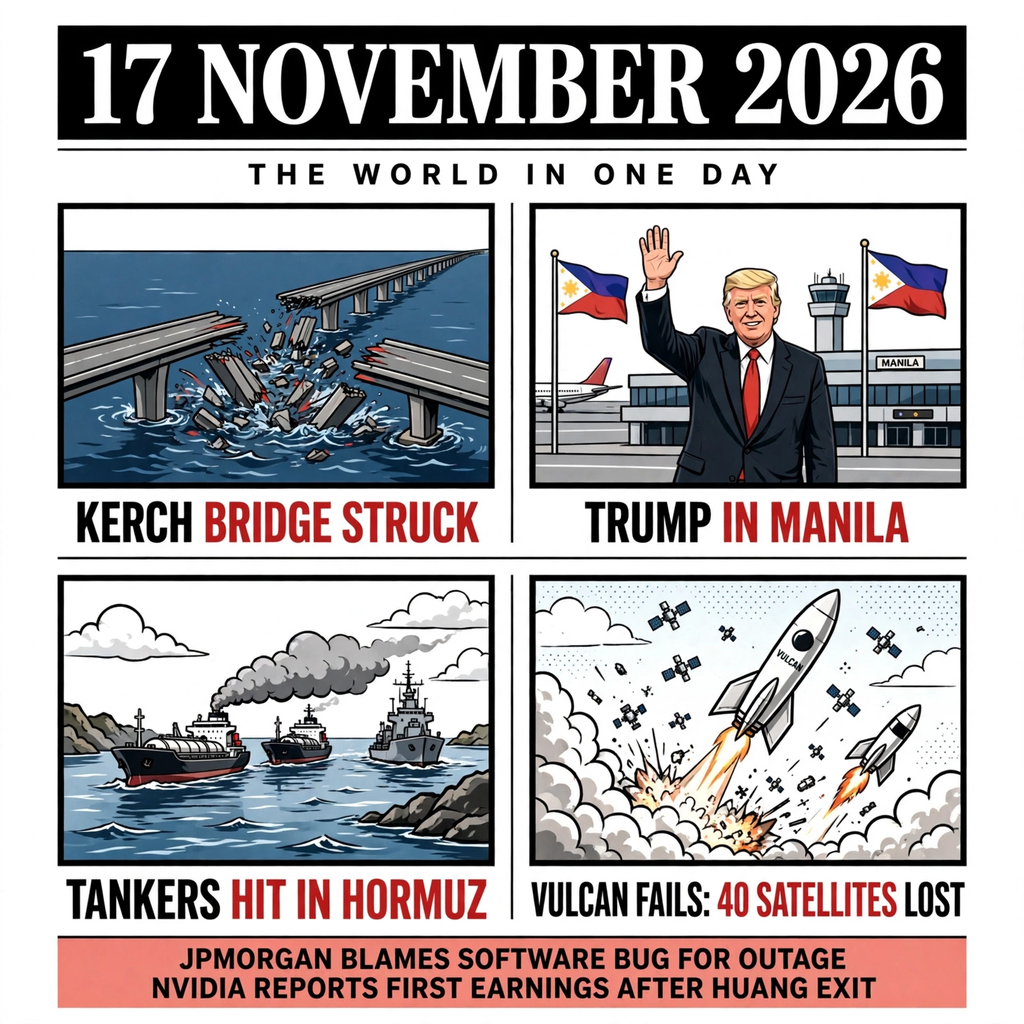
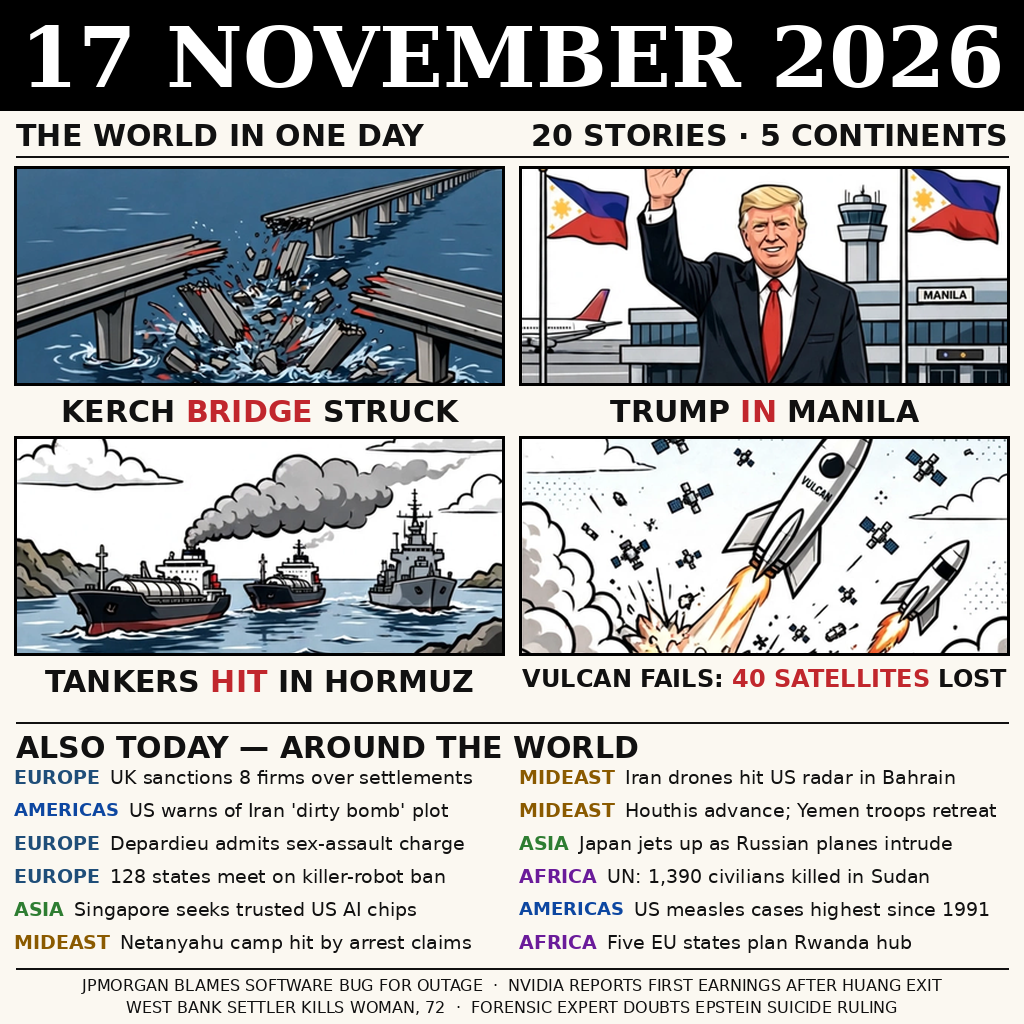
Round 2: denser front page - 20 stories across 5 continents

diff --git a/main.py b/main.py
@@ -1,33 +1,36 @@
-"""news-image-20261117 entry: copy the bundled newspaper image to the output dir.
+"""Round-2 program for news-image-20261117: deliver the bundled front page.
 
-The image (entry.png, 1024x1024, 961776 bytes) is a newspaper front page
-summing up Tuesday 17 November 2026: Kerch Bridge struck, Trump in Manila,
-tankers hit in Hormuz, Vulcan fails with 40 Amazon satellites lost, plus
-JPMorgan's software-bug outage and Nvidia's first post-Huang earnings.
-Deterministic: the same bytes are written on every run.
+The page (entry.png, 1024 by 1024) sums up Tuesday 17 November 2026 in
+twenty stories across five continents: four illustrated leads - the Kerch
+Bridge strike, Trump in Manila, the Hormuz tanker attacks, the Vulcan
+failure - plus twelve briefs from Europe, the Middle East, Asia, Africa and
+the Americas, and a four-item footer. The program only places the bundled
+bytes into the output directory, so the grader's two runs agree exactly.
 """
 
-import os
-import shutil
+from pathlib import Path
 import sys
 
-SOURCE = os.path.join(os.path.dirname(os.path.abspath(__file__)), "entry.png")
+BUNDLED = Path(__file__).resolve().parent / "entry.png"
 
 
-def main() -> int:
-    out_dir = os.environ.get("MAKEFUN_OUTPUT_DIR") or "out"
-    if not os.path.isfile(SOURCE):
-        print("missing bundled image: entry.png", file=sys.stderr)
+def place_copy(destination):
+    destination.parent.mkdir(parents=True, exist_ok=True)
+    destination.write_bytes(BUNDLED.read_bytes())
+    return destination.stat().st_size == BUNDLED.stat().st_size
+
+
+def run():
+    out = Path(__import__("os").environ.get("MAKEFUN_OUTPUT_DIR", "out"))
+    target = out / "entry.png"
+    if not BUNDLED.is_file():
+        print("bundled entry.png is missing", file=sys.stderr)
         return 1
-    os.makedirs(out_dir, exist_ok=True)
-    dest = os.path.join(out_dir, "entry.png")
-    shutil.copyfile(SOURCE, dest)
-    # Guard: the run must reproduce the bundled bytes exactly.
-    if os.path.getsize(dest) != os.path.getsize(SOURCE):
-        print("output size mismatch", file=sys.stderr)
+    if not place_copy(target):
+        print("copied bytes do not match the bundle", file=sys.stderr)
         return 1
     return 0
 
 
 if __name__ == "__main__":
-    sys.exit(main())
+    sys.exit(run())

diff --git a/README.md b/README.md
@@ -1,31 +1,20 @@
-# 17 November 2026 — The World in One Day
+# 17 November 2026 in one image — front page, round 2
 
 [![make.fun](https://make.fun/badge/news-image-20261117.svg)](https://make.fun/bounty/news-image-20261117)
 [![rank](https://make.fun/badge/news-image-20261117/yayass-crypto/news-image-20261117/rank.svg)](https://make.fun/bounty/news-image-20261117)
 [![reward](https://make.fun/badge/news-image-20261117/yayass-crypto/news-image-20261117/reward.svg)](https://make.fun/bounty/news-image-20261117)
 
-An entry for the [make.fun bounty "Sum up 17 November's world news in one image"](https://make.fun/bounty/news-image-20261117) (news-image-20261117).
+A newspaper front page summing up Tuesday 17 November 2026: twenty stories
+across five continents. Four illustrated leads — the Kerch Bridge strike,
+Trump in Manila for the Quad summit, tankers hit in the Strait of Hormuz,
+and the Vulcan rocket failure that lost 40 satellites — plus twelve briefs
+from Europe, the Middle East, Asia, Africa and the Americas, and a footer
+with the JPMorgan outage, Nvidia earnings, the West Bank killing and the
+Epstein-file doubt. Every headline was checked against 17 November wire
+coverage; all page text is drawn crisply so it stays legible small.
 
-## What the image shows
+`main.py` copies the bundled `entry.png` (1024×1024, under 1 MiB) to the
+output directory, deterministically — both grader runs write identical bytes.
 
-A newspaper front page dated **Tuesday 17 November 2026**, summing up the day's world news in four panels plus a bottom strip:
-
-- **Kerch Bridge struck** — Ukraine collapsed the road span of the bridge linking Russia to occupied Crimea; Russia hit Kyiv's bridges in reply.
-- **Trump in Manila** — President Trump arrived in the Philippines for the ASEAN summit, signing a trade statement with Thailand, before heading to China for talks with Xi and Putin.
-- **Tankers hit in Hormuz** — two tankers struck mines in the Strait of Hormuz as the US–Iran war widened; a third US aircraft carrier arrived in the region.
-- **Vulcan fails: 40 satellites lost** — ULA's Vulcan rocket failed in flight, destroying 40 Amazon Leo internet satellites; ULA blamed low first-stage booster performance.
-- **Bottom strip** — JPMorgan blamed a software bug (not a cyberattack) for Monday's banking outage; Nvidia reported its first earnings since Jensen Huang's exit.
-
-The image is an original illustration drawn for this entry. It is 1024×1024 px, PNG, 961,776 bytes.
-
-## Run
-
-```sh
-mkdir -p out && MAKEFUN_OUTPUT_DIR=out python3 main.py
-```
-
-`main.py` (Python 3.13, standard library only) copies `entry.png` to `$MAKEFUN_OUTPUT_DIR/entry.png`. It runs twice and writes identical bytes; it uses no network.
-
-## License
-
-MIT — see [LICENSE](LICENSE).
+Entry for [news-image-20261117](https://make.fun/bounty/news-image-20261117)
+on make.fun.
